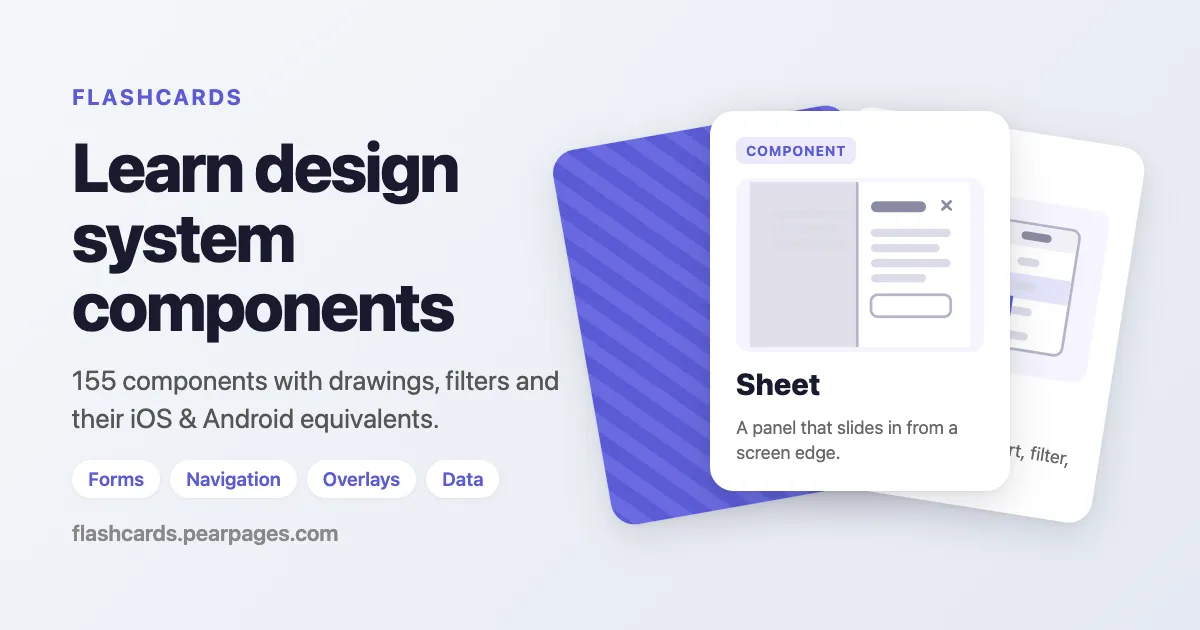
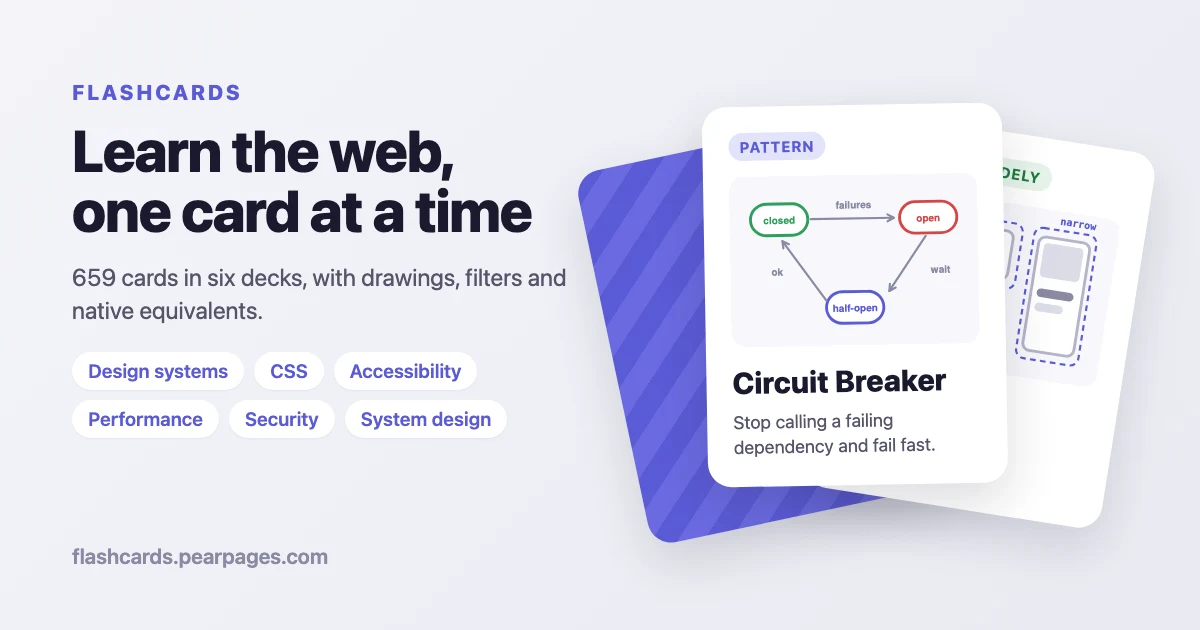
rebrand to plain flashcards: title, meta and og tags, new social card, docs

diff --git a/index.html b/index.html
@@ -3,10 +3,10 @@
   <head>
     <meta charset="UTF-8" />
     <meta name="viewport" content="width=device-width, initial-scale=1.0" />
-    <title>Design System Flashcards</title>
+    <title>Flashcards</title>
     <meta
       name="description"
-      content="Learn 155 design system components with flashcards: what each one is for, wireframe drawings for desktop and mobile, and their iOS and Android equivalents."
+      content="Flashcards for learning design systems, CSS, accessibility, web performance, web security and system design, with drawings, filters and native equivalents."
     />
     <link rel="canonical" href="https://flashcards.pearpages.com/" />
     <link rel="icon" type="image/svg+xml" href="/favicon.svg" />
@@ -14,11 +14,11 @@
     <meta name="theme-color" content="#5b5bd6" />
 
     <meta property="og:type" content="website" />
-    <meta property="og:site_name" content="Design System Flashcards" />
-    <meta property="og:title" content="Design System Flashcards" />
+    <meta property="og:site_name" content="Flashcards" />
+    <meta property="og:title" content="Flashcards" />
     <meta
       property="og:description"
-      content="155 design system components as flashcards, with drawings, filters and their iOS and Android equivalents."
+      content="Six decks of flashcards on design systems, CSS, accessibility, web performance, web security and system design, with drawings and filters."
     />
     <meta property="og:url" content="https://flashcards.pearpages.com/" />
     <meta property="og:image" content="https://flashcards.pearpages.com/og.webp" />
@@ -27,13 +27,13 @@
     <meta property="og:image:height" content="630" />
     <meta
       property="og:image:alt"
-      content="Design System Flashcards: a fanned stack of component cards next to the title Learn design system components."
+      content="Flashcards: a fanned stack of cards, Circuit Breaker and Container queries, next to the title Learn the web, one card at a time."
     />
     <meta name="twitter:card" content="summary_large_image" />
-    <meta name="twitter:title" content="Design System Flashcards" />
+    <meta name="twitter:title" content="Flashcards" />
     <meta
       name="twitter:description"
-      content="155 design system components as flashcards, with drawings, filters and their iOS and Android equivalents."
+      content="Six decks of flashcards on design systems, CSS, accessibility, web performance, web security and system design, with drawings and filters."
     />
     <meta name="twitter:image" content="https://flashcards.pearpages.com/og.webp" />
   </head>

diff --git a/src/components/DeckPicker.tsx b/src/components/DeckPicker.tsx
@@ -22,7 +22,7 @@ function previewImages(deck: Deck): string[] {
 
 export default function DeckPicker({ decks, onSelect }: DeckPickerProps) {
   useEffect(() => {
-    document.title = "Design System Flashcards";
+    document.title = "Flashcards";
   }, []);
 
   return (

diff --git a/tasks.md b/tasks.md
@@ -40,9 +40,6 @@ item, and add a dated line at the top of **Done**.
       `hyphens` prefixes, unprefixed `line-clamp`; `.keyframeAnimator()`,
       `SharedTransitionLayout`, `ViewThatFits` / `BoxWithConstraints` as container-query
       equivalents, `Modifier.weight()` for `fr`.
-- [ ] **Branding with six decks.** The page title, OG tags, `og.webp` and `document.title`
-      in `DeckPicker` still say "Design System Flashcards" and "155 components" — decide
-      whether the site becomes plain "Flashcards".
 - [ ] **Review the system-design deck** (104 cards, ADR-0009 Proposed): check the
       descriptions and the AWS/GCP/Azure service names in
       `src/decks/system-design/cards.json` against current provider docs; written from memory.
@@ -64,6 +61,7 @@ item, and add a dated line at the top of **Done**.
 
 ## Done
 
+- [x] 2026-10-20: Rebranded to plain "Flashcards": page title, meta and Open Graph/Twitter tags, a new `og.webp` ("Learn the web, one card at a time", six decks), `document.title` on the picker, package.json, README and the knowledge files.
 - [x] 2026-10-20: CSS deck: 100 cards (cascade, selectors, box model, flexbox, grid, positioning, responsive, typography, colour, motion, architecture) with a drawing each, a Baseline status badge and SwiftUI/Compose equivalents for layout (ADR-0013).
 - [x] 2026-10-20: Bundle size: card drawings are separate hashed files instead of inlined data URIs, browse thumbnails lazy-load; JS 1.8 MB → 670 kB (337 → 210 kB gzipped) (ADR-0012).
 - [x] 2026-10-20: Web Performance deck: 100 cards (metrics, measurement, network, server, caching, loading, assets, JavaScript, rendering) with a drawing each, anti-patterns as their own kind, and the metric each card improves as a badge (ADR-0011).

diff --git a/README.md b/README.md
@@ -1,4 +1,4 @@
-# Design System Flashcards
+# Flashcards
 
 [![Live site](https://img.shields.io/badge/live-flashcards.pearpages.com-5b5bd6)](https://flashcards.pearpages.com)
 [![CI](https://github.com/pearpages/flashcards/actions/workflows/ci.yml/badge.svg)](https://github.com/pearpages/flashcards/actions/workflows/ci.yml)
@@ -6,7 +6,9 @@
 [![Release](https://img.shields.io/github/v/release/pearpages/flashcards)](https://github.com/pearpages/flashcards/releases)
 [![License: MIT](https://img.shields.io/badge/license-MIT-blue)](LICENSE)
 
-A mobile-first flashcard deck for learning design system components: 155 components, each tagged three ways: its purpose (forms, navigation, overlays…), its layer (primitive, component, pattern) and its atomic design level (atom, molecule, organism, template). Each card has wireframe drawings and, for most, the iOS and Android equivalents.
+A mobile-first flashcard app with six decks: design systems, CSS, accessibility, web performance, web security and system design. Every card has a wireframe drawing, and each deck brings its own filters and badges.
+
+The first deck, **Design System**, has 155 components, each tagged three ways: its purpose (forms, navigation, overlays…), its layer (primitive, component, pattern) and its atomic design level (atom, molecule, organism, template). Each card has wireframe drawings and, for most, the iOS and Android equivalents.
 
 A second deck, **Accessibility**, covers 100 ARIA patterns, roles and attributes, techniques and WCAG 2.2 criteria, filtered by kind and by who they help most (screen reader, keyboard, low vision, motor, cognitive, hearing, vestibular, photosensitive), with the WCAG level as a badge and the SwiftUI and Compose equivalents.
 

diff --git a/AGENTS.md b/AGENTS.md
@@ -1,10 +1,11 @@
-# Design System Flashcards
+# Flashcards
 
-A mobile-first flashcard app for learning design system components. Each deck is a data
-folder in `src/decks/` (the first one, design-system, has 155 components) with filters,
-a browse view, desktop/mobile/iOS/Android drawings and native-platform equivalents. It is a
-static React + Vite site; the source is public on GitHub, and pushing a `v*` tag publishes
-it to GitHub Pages at flashcards.pearpages.com.
+A mobile-first flashcard app with six decks (design system, CSS, accessibility, web
+performance, web security, system design). Each deck is a data folder in `src/decks/`
+with its own filters, badges, drawings and, where it declares them, platform equivalents
+(iOS/Android, SwiftUI/Compose, AWS/GCP/Azure); all decks share one browse view and
+study stack. It is a static React + Vite site; the source is public on GitHub, and
+pushing a `v*` tag publishes it to GitHub Pages at flashcards.pearpages.com.
 
 ## Project documents — read before working
 

diff --git a/architecture.md b/architecture.md
@@ -1,6 +1,6 @@
 # Architecture
 
-How Design System Flashcards is built. It explains *how* things work. The rules that follow
+How Flashcards is built. It explains *how* things work. The rules that follow
 from it are in [principles.md](principles.md), the reasons for each choice in
 [decisions.md](decisions.md), the security surface in [security.md](security.md), and open
 work in [tasks.md](tasks.md). When code and this file disagree, the code is right and this

diff --git a/security.md b/security.md
@@ -1,6 +1,6 @@
 # Security
 
-The security surface of Design System Flashcards and the rules that protect it. General
+The security surface of Flashcards and the rules that protect it. General
 rules are in [principles.md](principles.md); how the pieces fit in
 [architecture.md](architecture.md). Update this file whenever the surface changes (new
 input, endpoint, secret, dependency, permission).

diff --git a/decisions.md b/decisions.md
@@ -1,6 +1,6 @@
 # Decisions
 
-Architecture Decision Records for Design System Flashcards. Each ADR in `docs/adr/` records
+Architecture Decision Records for Flashcards. Each ADR in `docs/adr/` records
 one choice, its context and its trade-off. The rules that follow from them are in
 [principles.md](principles.md).
 
